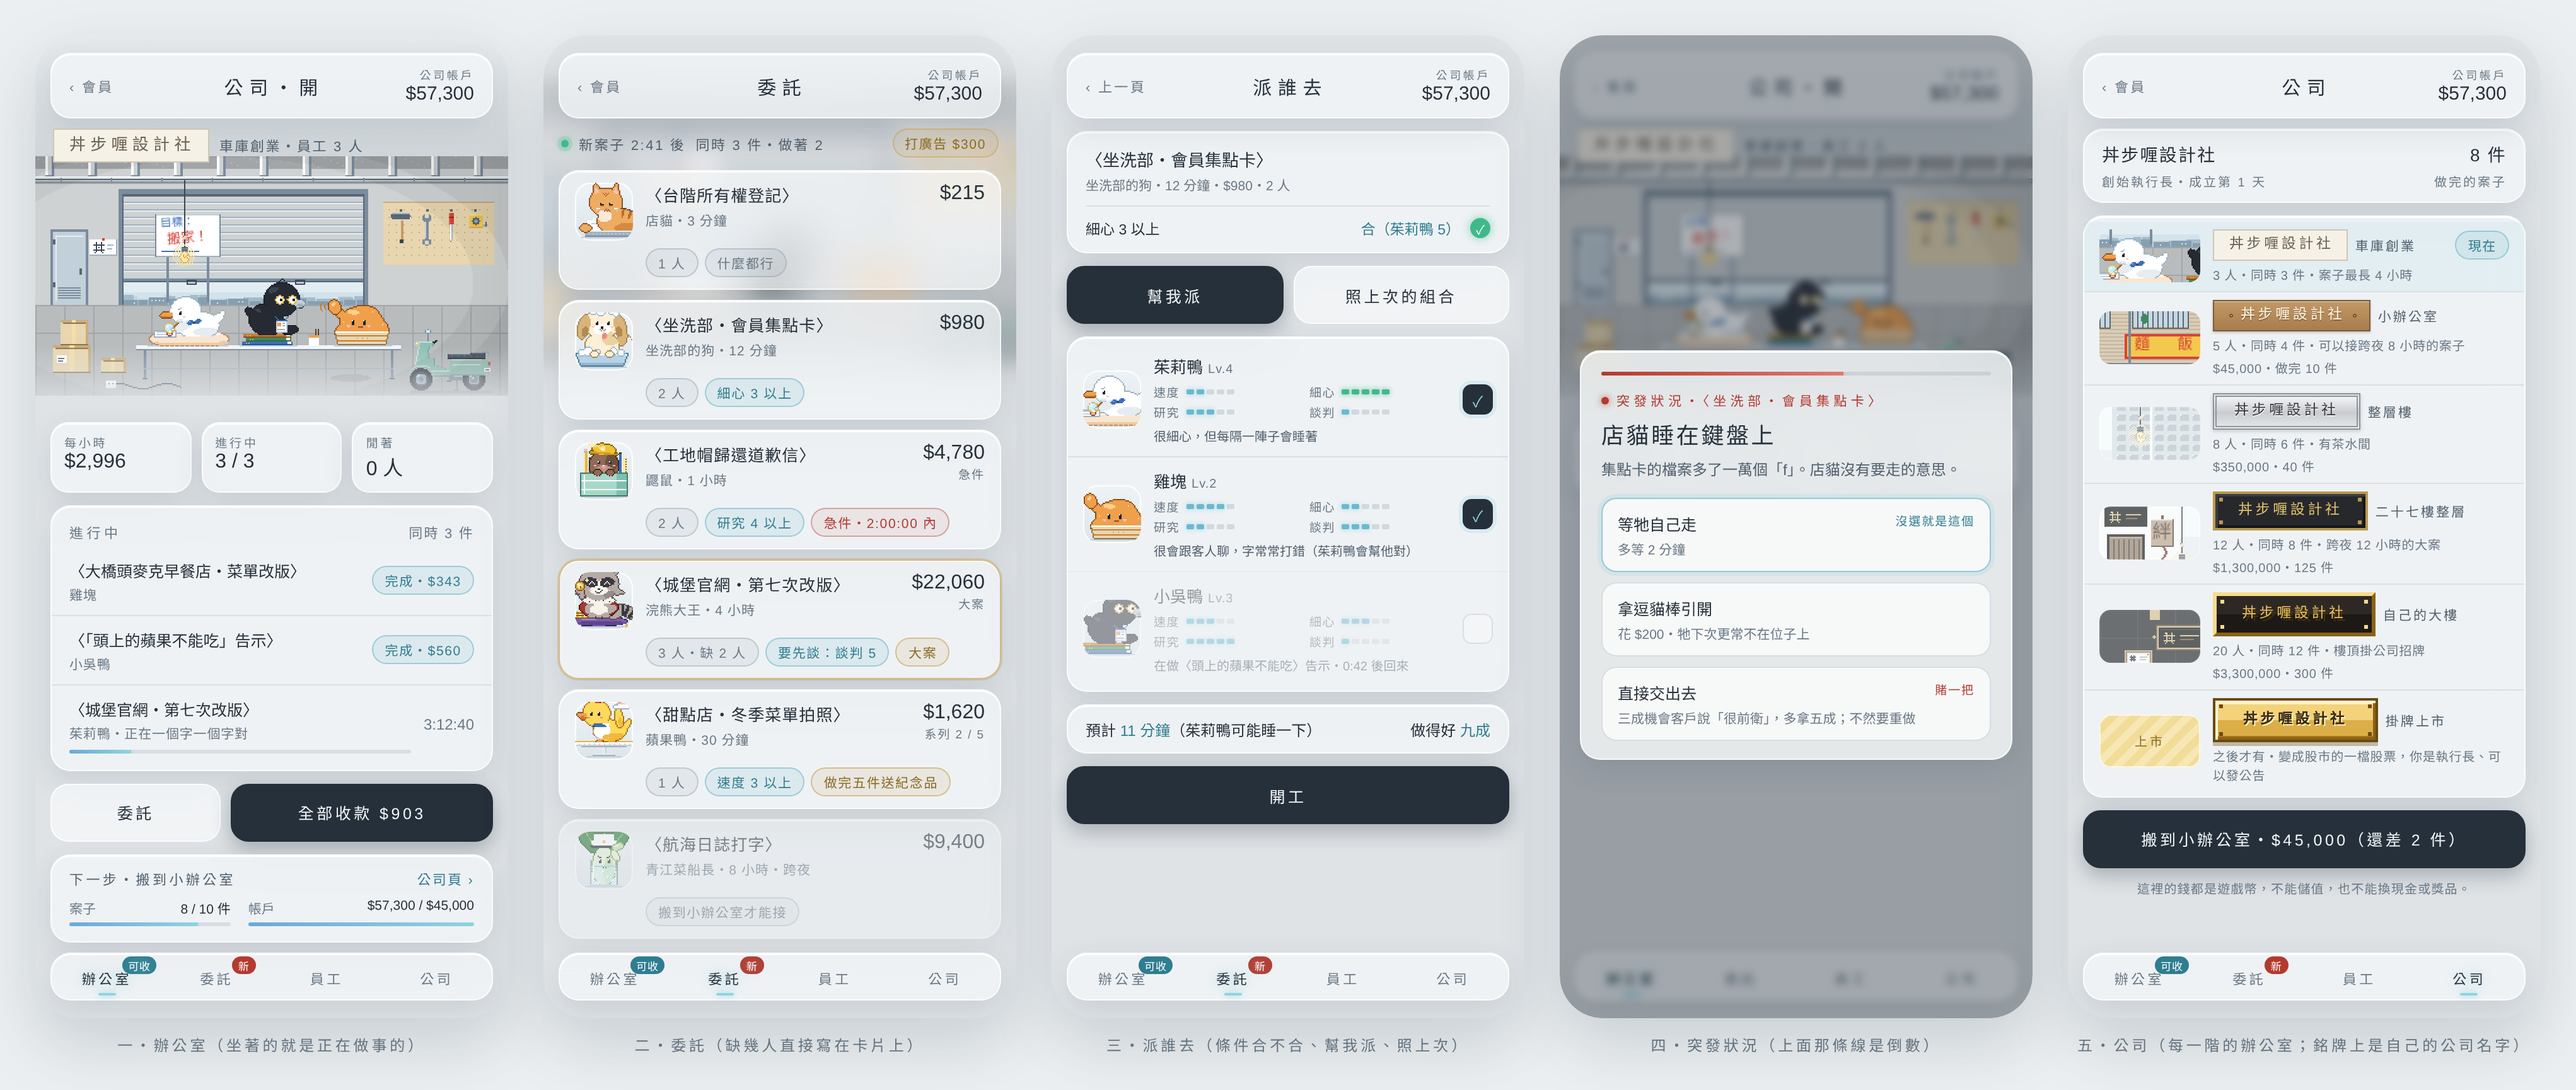
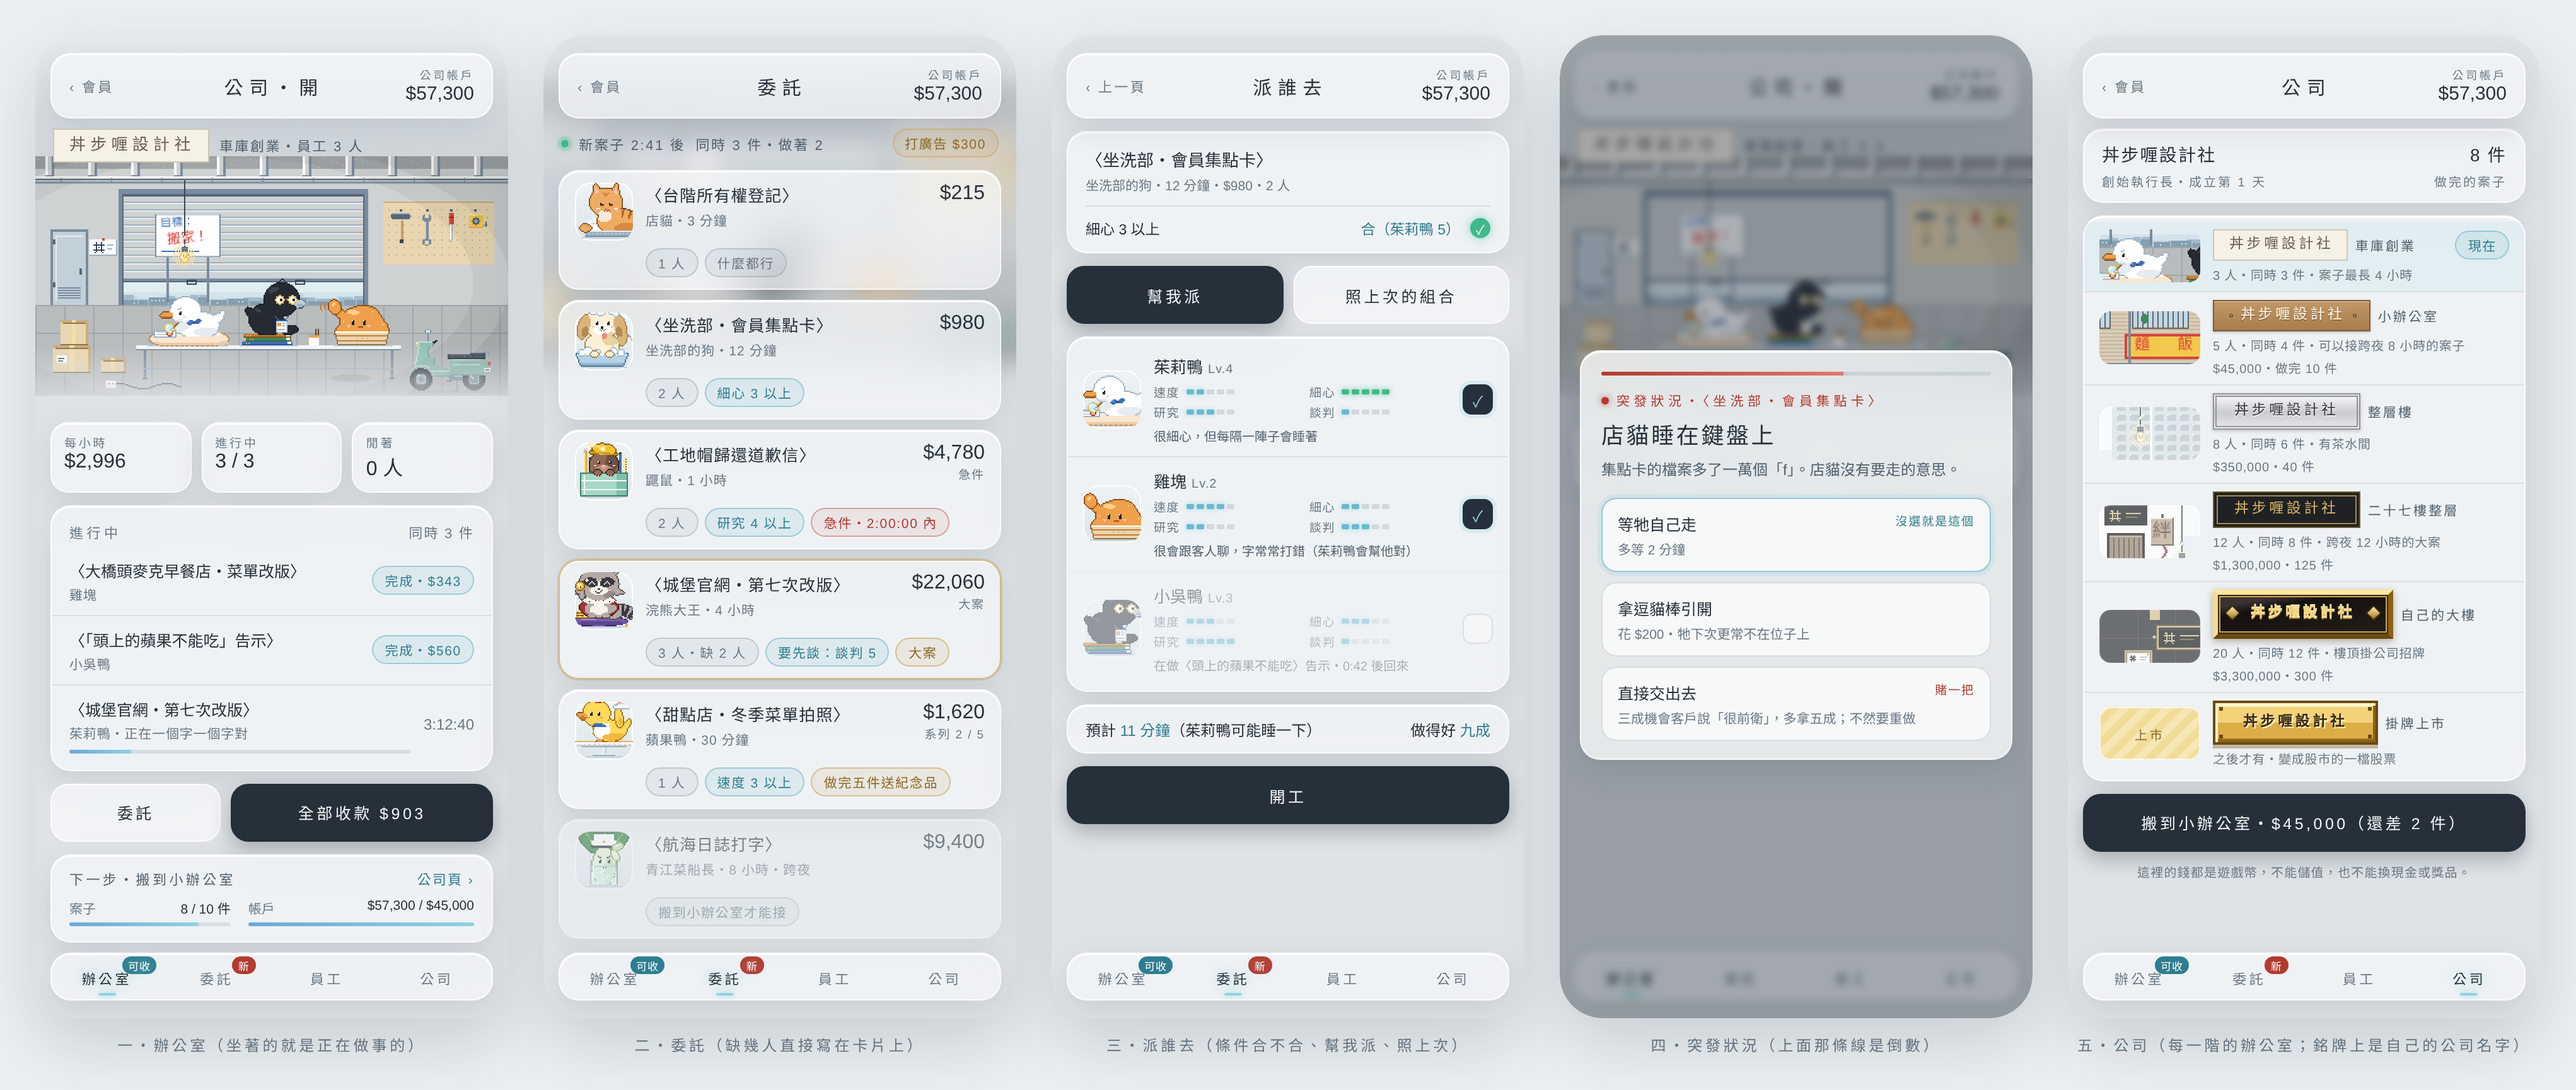
docs: distinct 27F/HQ nameplates, fix IPO row overflow
Claude-Session: https://claude.ai/code/session_01DfELKGAuUeHGLNNJha5AAX

Changed region(s): [[0.8081, 0.437, 0.9946, 0.8428]]

diff --git a/docs/plans/company/ui.css b/docs/plans/company/ui.css
@@ -108,8 +108,9 @@
   .np2::after { order: 2; }
   .np3 { background: linear-gradient(#f3f4f6, #c9ccd1 55%, #e2e4e7); color: #34373d; border: 3px double #8f949b; box-shadow: 0 1px 3px rgba(0,0,0,.2); text-shadow: 0 1px 0 rgba(255,255,255,.7); padding: 4px 14px; }
   /* 第 4～6 階：像素金屬（美術審稿：滑順漸層跟像素畫不搭）——硬邊色帶、一顆斜面、四角鉚釘 */
-  .np4 { background: linear-gradient(#b89a4a,#b89a4a) left 3px top 3px/3px 3px no-repeat, linear-gradient(#b89a4a,#b89a4a) right 3px top 3px/3px 3px no-repeat, linear-gradient(#b89a4a,#b89a4a) left 3px bottom 3px/3px 3px no-repeat, linear-gradient(#b89a4a,#b89a4a) right 3px bottom 3px/3px 3px no-repeat, #26282c; color: #e2c26a; border: 2px solid #b89a4a; box-shadow: inset 2px 2px 0 #3a3d44, inset -2px -2px 0 #15161a; padding: 6px 18px; letter-spacing: .32em; }
-  .np5 { background: linear-gradient(#f6dc8a,#f6dc8a) left 3px top 3px/3px 3px no-repeat, linear-gradient(#f6dc8a,#f6dc8a) right 3px top 3px/3px 3px no-repeat, linear-gradient(#f6dc8a,#f6dc8a) left 3px bottom 3px/3px 3px no-repeat, linear-gradient(#f6dc8a,#f6dc8a) right 3px bottom 3px/3px 3px no-repeat, linear-gradient(#2e2824 0 50%, #1d1916 50%); color: #e9c25a; border: 3px solid; border-color: #f6dc8a #8a6216 #8a6216 #f6dc8a; padding: 7px 20px; text-shadow: 2px 2px 0 #4a3410; letter-spacing: .34em; }
+  .np4 { background: #1f2125; color: #d9b75e; border: 1px solid #6b5a2c; box-shadow: inset 0 0 0 2px #1f2125, inset 0 0 0 3px #a88c45; padding: 6px 16px; letter-spacing: .3em; }   /* 二十七樓：黑底金字，簡單一條細金線，沒有釘子、沒有框（使用者：整層跟大樓沒差異） */
+  .np5 { position: relative; background: linear-gradient(170deg, #3a3330 0 18%, #15110f 32%, #241d19 100%); color: #f3d27a; border: 4px solid; border-color: #ffe9a0 #8a6216 #6b4a12 #f6dc8a; box-shadow: inset 0 0 0 1px #3b2a0c, inset 0 0 0 2px #c9a35a, 0 2px 6px rgba(60,40,10,.35); padding: 8px 26px; letter-spacing: .34em; font-weight: 600; text-shadow: 0 -1px 0 #fff3c4, 0 1px 0 #4a3410; }   /* 自己的大樓：黑漆（有一道亮漆反光）＋厚金框（左上亮右下暗）＋內圈細金線＋兩邊金色菱形 */
+  .np5::before, .np5::after { content: ''; position: absolute; top: 50%; width: 7px; height: 7px; margin-top: -4px; background: linear-gradient(135deg, #ffe9a0, #c9a35a 60%, #8a6216); transform: rotate(45deg); box-shadow: 0 0 0 1px #3b2a0c; } .np5::before { left: 8px; } .np5::after { right: 8px; }
   .np5 span { color: inherit; }
   .np6 { background: linear-gradient(#6b4a12,#6b4a12) left 3px top 3px/3px 3px no-repeat, linear-gradient(#6b4a12,#6b4a12) right 3px top 3px/3px 3px no-repeat, linear-gradient(#6b4a12,#6b4a12) left 3px bottom 3px/3px 3px no-repeat, linear-gradient(#6b4a12,#6b4a12) right 3px bottom 3px/3px 3px no-repeat, linear-gradient(#fff1b8 0 3px, #f3d27a 3px 50%, #dcae48 50% calc(100% - 3px), #a8761f calc(100% - 3px)); color: #3b2a0c; border: 2px solid #6b4a12; box-shadow: inset 2px 2px 0 #fff6d0, inset -2px -2px 0 #8a6216, 0 3px 0 rgba(107,74,18,.35); padding: 8px 22px; letter-spacing: .36em; font-weight: 600; text-shadow: 1px 1px 0 #fff3c4; }
 

diff --git a/docs/plans/company/ui.html b/docs/plans/company/ui.html
@@ -106,7 +106,7 @@
       <div class="lvl lock"><div class="th"><img src="ui/thumb3.png" alt=""></div><div class="info"><div class="top"><span class="np np3">丼步喱設計社</span><span class="stg">整層樓</span></div><div class="d">8 人・同時 6 件・有茶水間</div><div class="d pr2 num">$350,000・40 件</div></div></div>
       <div class="lvl lock"><div class="th"><img src="ui/thumb4.png" alt=""></div><div class="info"><div class="top"><span class="np np4">丼步喱設計社</span><span class="stg">二十七樓整層</span></div><div class="d">12 人・同時 8 件・跨夜 12 小時的大案</div><div class="d pr2 num">$1,300,000・125 件</div></div></div>
       <div class="lvl lock"><div class="th"><img src="ui/thumb5.png" alt=""></div><div class="info"><div class="top"><span class="np np5">丼步喱設計社</span><span class="stg">自己的大樓</span></div><div class="d">20 人・同時 12 件・樓頂掛公司招牌</div><div class="d pr2 num">$3,300,000・300 件</div></div></div>
-      <div class="lvl lock ipo"><div class="th">上市</div><div class="info"><div class="top"><span class="np np6">丼步喱設計社</span><span class="stg">掛牌上市</span></div><div class="d">之後才有・變成股市的一檔股票，你是執行長、可以發公告</div></div></div>
+      <div class="lvl lock ipo"><div class="th">上市</div><div class="info"><div class="top"><span class="np np6">丼步喱設計社</span><span class="stg">掛牌上市</span></div><div class="d">之後才有・變成股市的一檔股票</div></div></div>
     </div>
     <div class="cta"><button class="main num" style="flex:1">搬到小辦公室・$45,000（還差 2 件）</button></div>
     <p class="foot">這裡的錢都是遊戲幣，不能儲值，也不能換現金或獎品。</p>

diff --git a/docs/plans/company/README.md b/docs/plans/company/README.md
@@ -106,3 +106,4 @@
   - **公司・榜**：排行・榜多一頁，排開公司以來累計淨賺（不是帳戶餘額），列出公司名字、現在的銘牌、執行長。
   - **設備**：每階三樣（車庫：延長線、二手電風扇、像樣的印表機），每樣 +8%。
 - **銘牌上寫自己的公司名字**（2026-11-25，使用者：「牌子裡面要放自己公司名稱吧？」）：介面上的銘牌（辦公室上方、公司頁每一階、公司・榜）都改成寫玩家取的公司名字，階段名稱（車庫創業、小辦公室…）寫在旁邊；銘牌的材質（紙名片 → 木牌 → 拉絲銀牌 → 黑底金字 → 黑漆金框 → 金箔）表示到第幾階。辦公室畫面裡門邊那塊像素小牌只有 22～44 px 寬，放不下 12 個字，**用公司名字的第一個字當標誌**（丼步喱設計社 → 「丼」），旁邊兩條線代表字。
+- 使用者：「整層跟大樓沒差異」「上市爆版了」——二十七樓（黑底金字）和自己的大樓（黑漆金框）的介面銘牌原本都是黑底、金字、四角金釘，看起來一樣。改成：**二十七樓**＝平黑底、金字、內圈一條細金線，沒有釘子；**自己的大樓**＝黑漆（斜斜一道亮漆反光）、厚金框（左上亮右下暗）、內圈細金線、兩邊各一顆金色菱形、字加粗有浮雕。上市那一列原本「之後才有」的小標籤擠出面板右邊、說明又換行，改成一行「之後才有・變成股市的一檔股票」。

diff --git a/changelog/2026-11.md b/changelog/2026-11.md
@@ -1473,3 +1473,8 @@
 - 介面上的銘牌改成寫玩家自己取的公司名字，牌子的材質（紙名片、木牌、銀牌、黑底金字、黑漆金框、金箔）表示公司到第幾階；排行榜上每家公司也是用自己的銘牌。
 - 辦公室畫面裡門邊的小牌太小，放公司名字的第一個字當標誌。
 - 還在企劃階段，玩家看不到；不用重新部署。
+
+## 2026-11-25 14:20（台灣）　公司・開：二十七樓和大樓的銘牌分清楚
+- 二十七樓的銘牌改成簡單的黑底金字；自己的大樓改成黑漆加厚金框、兩邊金色菱形，一看就分得出來。
+- 公司頁「掛牌上市」那一列原本字擠出畫面，修好。
+- 還在企劃階段，玩家看不到；不用重新部署。
